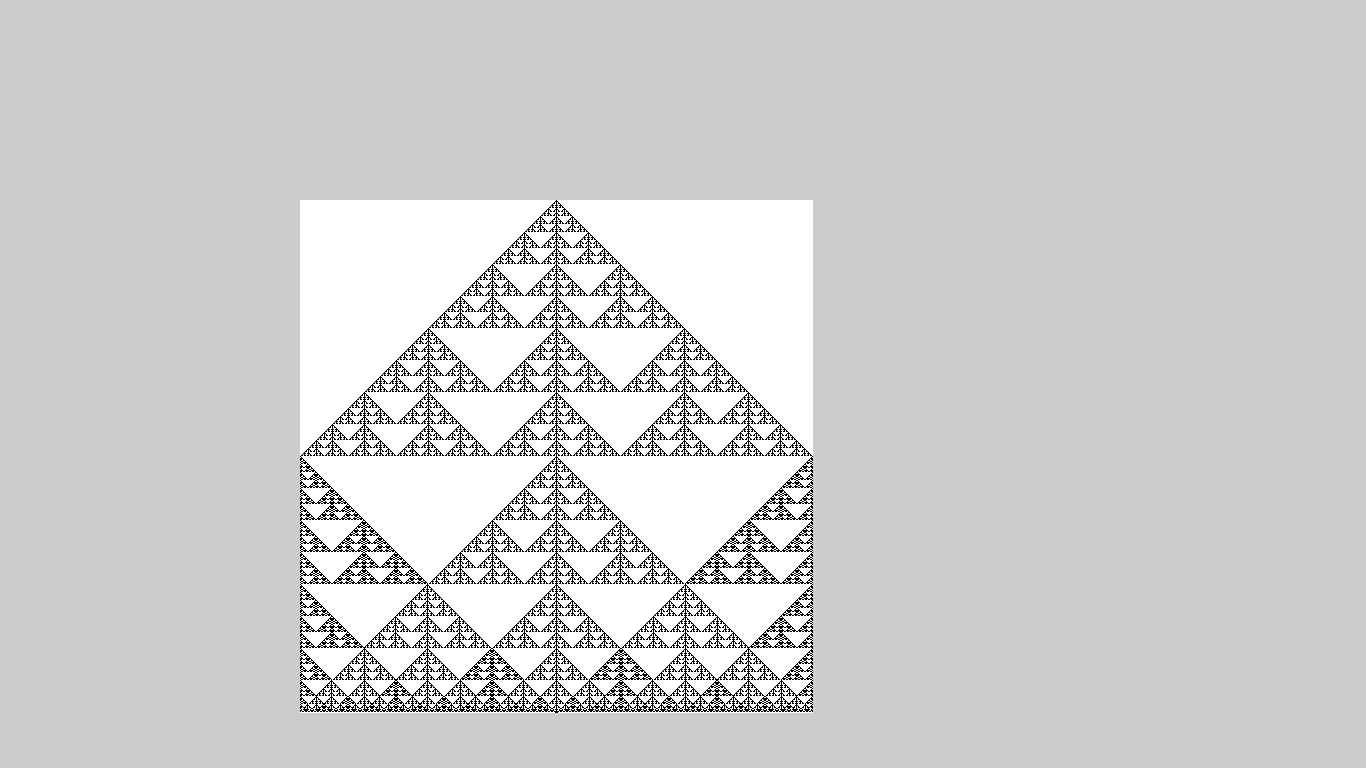
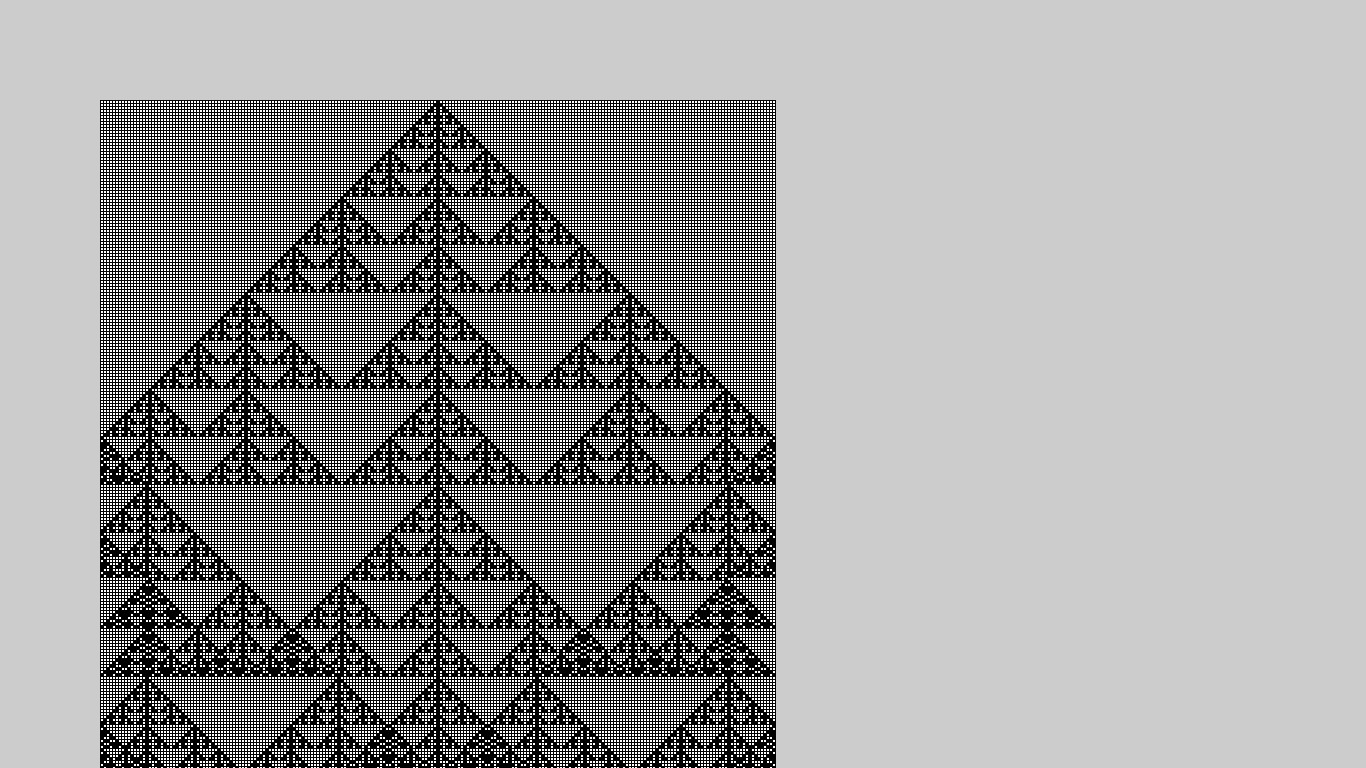
Gerando imagens em sequência

diff --git a/cellular-automata-main/src/main/java/dev/acs/cellularautomata/CellularAutomata.java b/cellular-automata-main/src/main/java/dev/acs/cellularautomata/CellularAutomata.java
@@ -11,39 +11,39 @@ import java.util.Arrays;
 import java.util.List;
 
 public class CellularAutomata extends PApplet {
-    public static final Integer CELL_SIZE = 1;
+    public static final Integer CELL_SIZE = 3;
 
-    public static final Integer CANVAS_WIDTH = 800;
+    public static final Integer CANVAS_WIDTH = 640;
 
-    public static final Integer CANVAS_HEIGHT = 800;
+    public static final Integer CANVAS_HEIGHT = 640;
 
     private List<Integer> ref = new ArrayList<>(
             Arrays.asList(
                     new Integer[]{
-                            0, 0, 0, 0, 0, 0, 0, 0,
-                            0, 0, 0, 0, 0, 0, 0, 0,
-                            0, 0, 0, 0, 0, 0, 0, 0,
-                            0, 0, 0, 0, 0, 0, 0, 0,
-                            0, 0, 0, 0, 0, 0, 0, 0,
-                            0, 0, 0, 0, 0, 0, 0, 0,
-                            0, 0, 0, 0, 0, 0, 0, 0,
-                            0, 0, 0, 0, 0, 0, 0, 0,
-                            0, 0, 0, 0, 0, 0, 0, 0,
-                            0, 0, 0, 0, 0, 0, 0, 0,
-                            0, 0, 0, 0, 0, 0, 0, 0,
-                            0, 0, 0, 0, 0, 0, 0, 0,
-                            0, 0, 0, 0, 0, 0, 0, 0,
-                            0, 0, 0, 0, 0, 0, 0, 0,
-                            0, 0, 0, 0, 0, 0, 0, 0,
-                            0, 0, 0, 0, 0, 0, 0, 0,
-                            0, 0, 0, 0, 0, 0, 0, 0,
-                            0, 0, 0, 0, 0, 0, 0, 0,
-                            0, 0, 0, 0, 0, 0, 0, 0,
-                            0, 0, 0, 0, 0, 0, 0, 0,
-                            0, 0, 0, 0, 0, 0, 0, 0,
-                            0, 0, 0, 0, 0, 0, 0, 0,
-                            0, 0, 0, 0, 0, 0, 0, 0,
-                            0, 0, 0, 0, 0, 0, 0, 0,
+//                            0, 0, 0, 0, 0, 0, 0, 0,
+//                            0, 0, 0, 0, 0, 0, 0, 0,
+//                            0, 0, 0, 0, 0, 0, 0, 0,
+//                            0, 0, 0, 0, 0, 0, 0, 0,
+//                            0, 0, 0, 0, 0, 0, 0, 0,
+//                            0, 0, 0, 0, 0, 0, 0, 0,
+//                            0, 0, 0, 0, 0, 0, 0, 0,
+//                            0, 0, 0, 0, 0, 0, 0, 0,
+//                            0, 0, 0, 0, 0, 0, 0, 0,
+//                            0, 0, 0, 0, 0, 0, 0, 0,
+//                            0, 0, 0, 0, 0, 0, 0, 0,
+//                            0, 0, 0, 0, 0, 0, 0, 0,
+//                            0, 0, 0, 0, 0, 0, 0, 0,
+//                            0, 0, 0, 0, 0, 0, 0, 0,
+//                            0, 0, 0, 0, 0, 0, 0, 0,
+//                            0, 0, 0, 0, 0, 0, 0, 0,
+//                            0, 0, 0, 0, 0, 0, 0, 0,
+//                            0, 0, 0, 0, 0, 0, 0, 0,
+//                            0, 0, 0, 0, 0, 0, 0, 0,
+//                            0, 0, 0, 0, 0, 0, 0, 0,
+//                            0, 0, 0, 0, 0, 0, 0, 0,
+//                            0, 0, 0, 0, 0, 0, 0, 0,
+//                            0, 0, 0, 0, 0, 0, 0, 0,
+//                            0, 0, 0, 0, 0, 0, 0, 0,
                             0, 0, 0, 0, 0, 0, 0, 0,
                             0, 0, 0, 0, 0, 0, 0, 0,
                             0, 0, 0, 0, 0, 0, 0, 0,
@@ -61,49 +61,38 @@ public class CellularAutomata extends PApplet {
                             0, 0, 0, 0, 0, 0, 0, 0,
                             0, 0, 0, 0, 0, 0, 0, 0,
                             0, 0, 0, 0, 0, 0, 0, 0,
-                            0, 0, 0, 0, 0, 0, 0, 0,
-                            0, 0, 0, 0, 0, 0, 0, 0,
-                            0, 0, 0, 0, 0, 0, 0, 0,
-                            0, 0, 0, 0, 0, 0, 0, 0,
-                            0, 0, 0, 0, 0, 0, 0, 0,
-                            0, 0, 0, 0, 0, 0, 0, 0,
-                            0, 0, 0, 0, 0, 0, 0, 0,
-                            0, 0, 0, 0, 0, 0, 0, 0,
-                            0, 0, 0, 0, 0, 0, 0, 0,
-                            0, 0, 0, 0, 0, 0, 0, 0,
-                            0, 0, 0, 0, 0, 0, 0, 0,
-                            0, 0, 0, 0, 0, 0, 0, 0,
-                            0, 0, 0, 0, 0, 0, 0, 0,
-                            0, 0, 0, 0, 0, 0, 0, 0,
-                            0, 0, 0, 0, 0, 0, 0, 0,
-                            0, 0, 0, 0, 0, 0, 0, 0,
-                            0, 0, 0, 0, 0, 0, 0, 0,
-                            0, 0, 0, 0, 0, 0, 0, 0,
-                            0, 0, 0, 0, 0, 0, 0, 0,
-                            0, 0, 0, 0, 0, 0, 0, 0,
-                            0, 0, 0, 0, 0, 0, 0, 0,
-                            0, 0, 0, 0, 0, 0, 0, 0,
-                            0, 0, 0, 0, 0, 0, 0, 0,
-                            0, 0, 0, 0, 0, 0, 0, 0
+//                            0, 0, 0, 0, 0, 0, 0, 0,
+//                            0, 0, 0, 0, 0, 0, 0, 0,
+//                            0, 0, 0, 0, 0, 0, 0, 0,
+//                            0, 0, 0, 0, 0, 0, 0, 0,
+//                            0, 0, 0, 0, 0, 0, 0, 0,
+//                            0, 0, 0, 0, 0, 0, 0, 0,
+//                            0, 0, 0, 0, 0, 0, 0, 0,
+//                            0, 0, 0, 0, 0, 0, 0, 0,
+//                            0, 0, 0, 0, 0, 0, 0, 0,
+//                            0, 0, 0, 0, 0, 0, 0, 0,
+//                            0, 0, 0, 0, 0, 0, 0, 0,
+//                            0, 0, 0, 0, 0, 0, 0, 0,
+//                            0, 0, 0, 0, 0, 0, 0, 0,
+//                            0, 0, 0, 0, 0, 0, 0, 0,
+//                            0, 0, 0, 0, 0, 0, 0, 0,
+//                            0, 0, 0, 0, 0, 0, 0, 0,
+//                            0, 0, 0, 0, 0, 0, 0, 0,
+//                            0, 0, 0, 0, 0, 0, 0, 0,
+//                            0, 0, 0, 0, 0, 0, 0, 0,
+//                            0, 0, 0, 0, 0, 0, 0, 0,
+//                            0, 0, 0, 0, 0, 0, 0, 0,
+//                            0, 0, 0, 0, 0, 0, 0, 0,
+//                            0, 0, 0, 0, 0, 0, 0, 0,
+//                            0, 0, 0, 0, 0, 0, 0, 0
                     }) );
 
-// rule 30
-//Integer[] rule = new Integer[]{ 0, 0, 0, 1, 1, 1, 1, 0 };
-
-// rule 90
-//Integer[] rule = new Integer[]{ 0, 1, 0, 1, 1, 0, 1, 0 };
-
-// rule 105
-//Integer[] rule = new Integer[]{ 0, 1, 1, 0, 1, 0, 0, 1 };
-
-// rule 110
-//Integer[] rule = new Integer[]{ 0, 1, 1, 0, 1, 1, 1, 0 };
-
-    // rule 150
-    private Integer[] rule = new Integer[]{ 1, 0, 0, 1, 0, 1, 1, 0 };
+    private Integer[] rule;
     private Grid grid;
     private ICellStyle cellStyle;
     private Integer currentLine = 1;
+
+    private Integer currentRule = 255;
 
     public void settings(){
         size(CANVAS_WIDTH, CANVAS_HEIGHT);
@@ -113,9 +102,8 @@ public class CellularAutomata extends PApplet {
     public void setup(){
         grid = new Grid(this,ref.size(), ref.size());
         cellStyle = new SquareCellStyle(this);
-        translate(300, 200);
-        println(ref.size());
-
+        translate(100, 100);
+        rule = toRuleArray(currentRule);
         for(int i = 0; i < ref.size(); i++){
             createCell(i, 0, ref.get(i));
         }
@@ -125,17 +113,22 @@ public class CellularAutomata extends PApplet {
                 createCell(i, j, 0);
             }
         }
-
     }
 
     public void draw(){
-        println("Current Line: " + currentLine);
         if(currentLine == ref.size()) {
-            save("celular-automata.jpeg");
-            return; //<>//
+            currentLine = 1;
+            save(String.format("celular-automata-%s.jpeg", currentRule));
+            reset(++currentRule);
+
+            if(currentRule >= 500){
+                noLoop();
+                return;
+            }
+
         }
 
-        translate(300, 200);
+        translate(100, 100);
         for(int i = 0; i < ref.size(); i++){
 
             Boolean[] states = new Boolean[3];
@@ -203,14 +196,10 @@ public class CellularAutomata extends PApplet {
                 nextState = rule[7];
             }
 
-
+            System.out.println(String.valueOf(nextState));
             changeCellState(grid.getCell(i, currentLine), nextState);
-
-
         }
-
         currentLine++;
-
     }
 
     void createCell(Integer xpos, Integer ypos, Integer state){
@@ -224,4 +213,15 @@ public class CellularAutomata extends PApplet {
         cellStyle.drawCell(cell, CELL_SIZE);
     }
 
+    void reset(Integer nextRule){
+        rule = toRuleArray(nextRule);
+    }
+
+    Integer[] toRuleArray(Integer rule){
+        Integer[] bits = new Integer[8];
+        for (int i = 7; i >= 0; i--) {
+            bits[i] = (rule & (1 << i)) != 0 ? 1 : 0;
+        }
+        return bits;
+    }
 }

diff --git a/cellular-automata-main/src/main/java/dev/acs/cellularautomata/lib/SquareCellStyle.java b/cellular-automata-main/src/main/java/dev/acs/cellularautomata/lib/SquareCellStyle.java
@@ -11,7 +11,7 @@ public class SquareCellStyle implements ICellStyle{
     this.pa = pa;
   }
   public void drawCell(Cell cell, int size){
-    this.pa.noStroke();
+    //this.pa.noStroke();
     if(cell.getState() == 1){
       this.pa.fill(0);
     }else{
